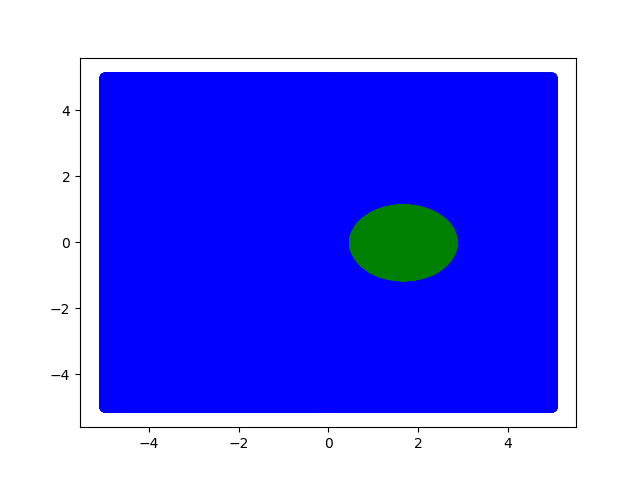
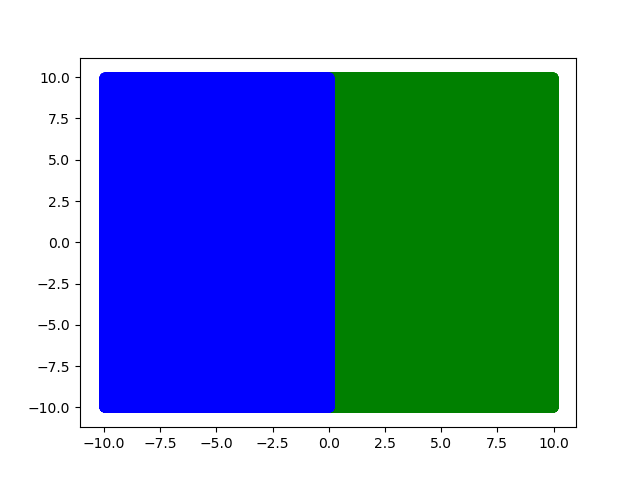
74546

diff --git a/python/Ferdinand _Vergewaltigt_Python.py b/python/Ferdinand _Vergewaltigt_Python.py
@@ -28,24 +28,23 @@ if __name__ == '__main__':
     green_list_y = []
     blue_list_x = []
     blue_list_y = []
-    UPPER_BOUNDARY = 5
-    LOWER_BOUNDARY = -5
+    UPPER_BOUNDARY = 10
+    LOWER_BOUNDARY = -10
     STEP_SIZE = 0.01
-    RADIUS = 0.5
-    for m in [0.5, 1, 2]:
-        RADIUS = m
-        for i in np.arange(LOWER_BOUNDARY, UPPER_BOUNDARY, STEP_SIZE):
-            for i2 in np.arange(LOWER_BOUNDARY, UPPER_BOUNDARY, STEP_SIZE):
-                x = compute(i, i2, RADIUS)
-                if x[2] == INSIDE_COLOR:
-                    green_list_x.append(x[0])
-                    green_list_y.append(x[1])
-                elif x[2] == OUSIDE_COLOR:
-                    blue_list_x.append(x[0])
-                    blue_list_y.append(x[1])
-        plt.scatter(green_list_x, green_list_y, c=INSIDE_COLOR)
-        print()
-        plt.scatter(blue_list_x, blue_list_y, c=OUSIDE_COLOR)
-        plt.savefig("Radius = " + str(RADIUS) + "Ferdinand_vergewaltigt_python.png")
-        plt.clf()
-        print("completed = ", RADIUS)
+    RADIUS = 2
+
+    for i in np.arange(LOWER_BOUNDARY, UPPER_BOUNDARY, STEP_SIZE):
+        for i2 in np.arange(LOWER_BOUNDARY, UPPER_BOUNDARY, STEP_SIZE):
+            x = compute(i, i2, RADIUS)
+            if x[2] == INSIDE_COLOR:
+                green_list_x.append(x[0])
+                green_list_y.append(x[1])
+            elif x[2] == OUSIDE_COLOR:
+                blue_list_x.append(x[0])
+                blue_list_y.append(x[1])
+    plt.scatter(green_list_x, green_list_y, c=INSIDE_COLOR)
+    print()
+    plt.scatter(blue_list_x, blue_list_y, c=OUSIDE_COLOR)
+    plt.savefig("Radius = " + str(RADIUS) + "Ferdinand_vergewaltigt_python.png")
+    plt.clf()
+    print("completed = ", RADIUS)
